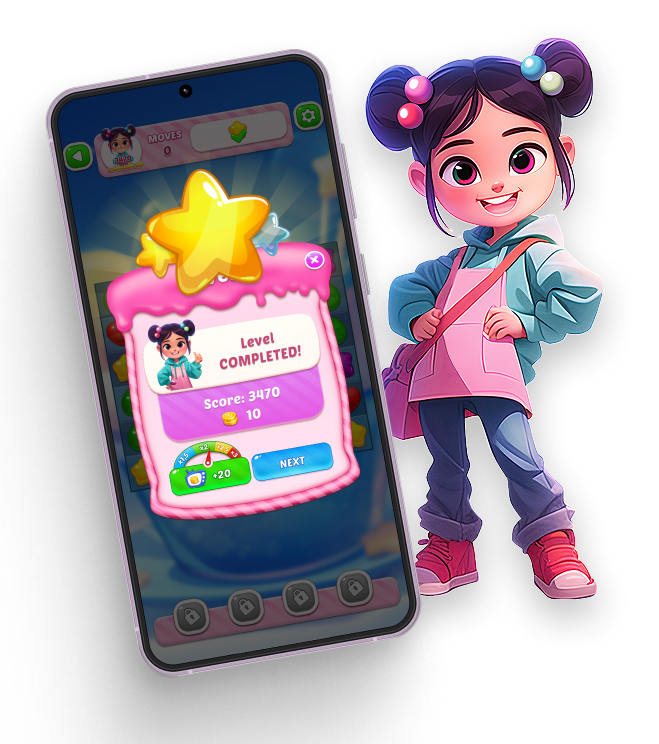
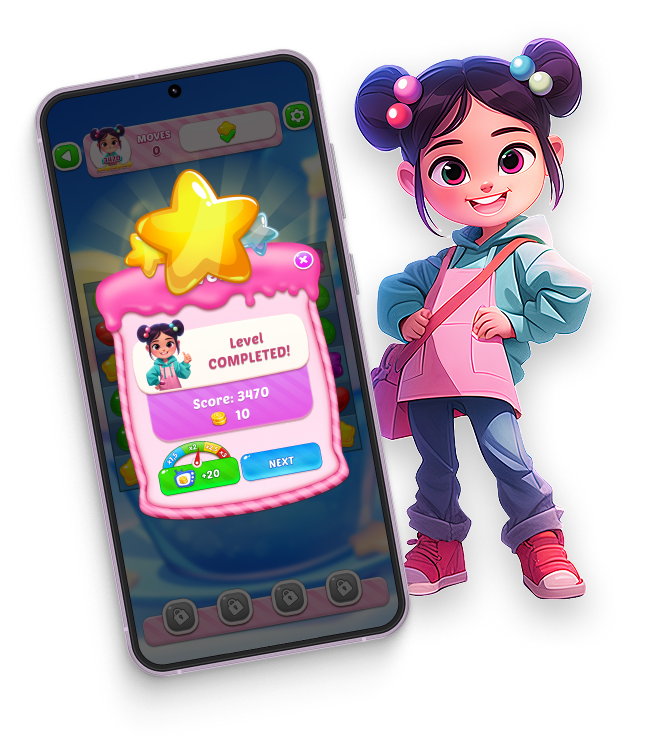
change image

Changed region(s): [[0.0308, 0.0309, 0.9245, 1.0], [0.2465, 0.7419, 0.2773, 0.7728]]

diff --git a/src/scss/show-off-your-town.scss b/src/scss/show-off-your-town.scss
@@ -90,8 +90,7 @@
 }
 .show-town-block-image {
   @include media(desktop) {
-    // width: 50%;
-    margin-left: -40px;
+    margin-left: -30px;
     margin-bottom: -60px;
   }
 }
